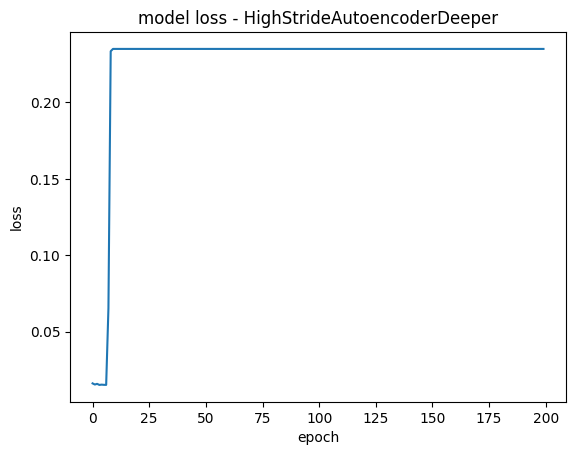
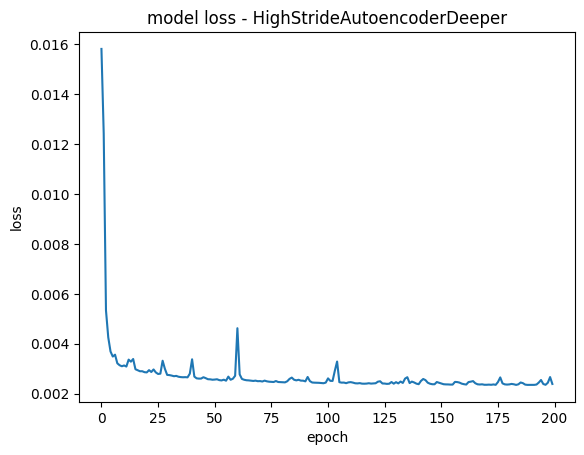
Additional scripts to test 400 epochs, added lower learning rate deepmod

diff --git a/Models/BasicAutoencoderEvenDeeperLLR.py b/Models/BasicAutoencoderEvenDeeperLLR.py
@@ -1,0 +1,101 @@
+import numpy as np
+from Models.BaseModel import BaseModel
+
+from keras.layers import Input, Reshape, Dense, Flatten
+from keras.layers import Activation, Conv2D, MaxPooling2D, UpSampling2D, PReLU
+from keras.initializers import Constant
+from keras.models import Model
+from keras.callbacks import History
+from keras.optimizers import Adam
+
+'''
+Basic Convolutional Autoencoder, especially deep, the encoding is really small
+With decreased learning rate
+
+@Author: Stepan Benes
+'''
+
+class BasicAutoencoderEvenDeeperLLR(BaseModel):
+
+    def __init__(self):
+        super().__init__()
+        self.name = "BasicAutoencoderEvenDeeperLLR"
+        return
+
+    # Custom optimizer learning rate to see if it improves anything
+    def compile_net(self):
+        opt = Adam(learning_rate=0.0001)
+        self.model.compile(optimizer=opt, loss='mse')
+        self.model.summary()
+        return
+
+    def create_net(self, input_shape):
+        net_input = Input(shape=input_shape)
+        x = Conv2D(self.filters, (3, 3), padding='same')(net_input)
+        x = PReLU(alpha_initializer=Constant(value=0.25))(x)
+        x = MaxPooling2D((2, 2), padding='same')(x)
+
+        x = Conv2D(self.filters, (3, 3), padding='same')(x)
+        x = PReLU(alpha_initializer=Constant(value=0.25))(x)
+        x = MaxPooling2D((2, 2), padding='same')(x)
+
+        x = Conv2D(self.filters, (3, 3), padding='same')(x)
+        x = PReLU(alpha_initializer=Constant(value=0.25))(x)
+        x = MaxPooling2D((2, 2), padding='same')(x)
+
+        x = Conv2D(self.filters, (3, 3), padding='same')(x)
+        x = PReLU(alpha_initializer=Constant(value=0.25))(x)
+        x = MaxPooling2D((2, 2), padding='same')(x)
+
+        x = Conv2D(self.filters, (3, 3), padding='same')(x)
+        x = PReLU(alpha_initializer=Constant(value=0.25))(x)
+        x = MaxPooling2D((2, 2), padding='same')(x)
+
+        x = Conv2D(self.filters, (3, 3), padding='same')(x)
+        x = PReLU(alpha_initializer=Constant(value=0.25))(x)
+        x = MaxPooling2D((2, 2), padding='same')(x)
+
+        x = Conv2D(self.filters, (3, 3), padding='same')(x)
+        x = PReLU(alpha_initializer=Constant(value=0.25))(x)
+        x = MaxPooling2D((2, 2), padding='same')(x)
+
+        x = Conv2D(self.filters, (3, 3), padding='same')(x)
+        x = PReLU(alpha_initializer=Constant(value=0.25))(x)
+        self.encoded = MaxPooling2D((2, 2), padding='same')(x)
+
+        # And now the decoder part
+        x = Conv2D(self.filters, (3, 3), padding='same')(self.encoded)
+        x = PReLU(alpha_initializer=Constant(value=0.25))(x)
+        x = UpSampling2D((2, 2))(x)
+
+        x = Conv2D(self.filters, (3, 3), padding='same')(x)
+        x = PReLU(alpha_initializer=Constant(value=0.25))(x)
+        x = UpSampling2D((2, 2))(x)
+
+        x = Conv2D(self.filters, (3, 3), padding='same')(x)
+        x = PReLU(alpha_initializer=Constant(value=0.25))(x)
+        x = UpSampling2D((2, 2))(x)
+
+        x = Conv2D(self.filters, (3, 3), padding='same')(x)
+        x = PReLU(alpha_initializer=Constant(value=0.25))(x)
+        x = UpSampling2D((2, 2))(x)
+
+        x = Conv2D(self.filters, (3, 3), padding='same')(x)
+        x = PReLU(alpha_initializer=Constant(value=0.25))(x)
+        x = UpSampling2D((2, 2))(x)
+
+        x = Conv2D(self.filters, (3, 3), padding='same')(x)
+        x = PReLU(alpha_initializer=Constant(value=0.25))(x)
+        x = UpSampling2D((2, 2))(x)
+
+        x = Conv2D(self.filters, (3, 3), padding='same')(x)
+        x = PReLU(alpha_initializer=Constant(value=0.25))(x)
+        x = UpSampling2D((2, 2))(x)
+
+        x = Conv2D(self.filters, (3, 3), padding='same')(x)
+        x = PReLU(alpha_initializer=Constant(value=0.25))(x)
+        x = UpSampling2D((2, 2))(x)
+        self.decoded = Conv2D(1, (3, 3), activation='sigmoid', padding='same')(x)
+
+        self.model = Model(net_input, self.decoded)
+        return

diff --git a/autoencoder_tester.py b/autoencoder_tester.py
@@ -9,6 +9,7 @@ from Models.HighStrideAutoencoder import HighStrideAutoencoder
 from Models.BasicAutoencoderDeeper import BasicAutoencoderDeeper
 from Models.HighStrideAutoencoderDeeper import HighStrideAutoencoderDeeper
 from Models.BasicAutoencoderEvenDeeper import BasicAutoencoderEvenDeeper
+from Models.BasicAutoencoderEvenDeeperLLR import BasicAutoencoderEvenDeeperLLR
 
 import matplotlib.pyplot as plt
 
@@ -86,6 +87,8 @@ elif desired_model == "BasicAutoencoderDeeper":
     model = BasicAutoencoderDeeper()
 elif desired_model == "BasicAutoencoderEvenDeeper":
     model = BasicAutoencoderEvenDeeper()
+elif desired_model == "BasicAutoencoderEvenDeeperLLR":
+    model = BasicAutoencoderEvenDeeperLLR()
 else:
     print("No model specified")
     sys.exit()
